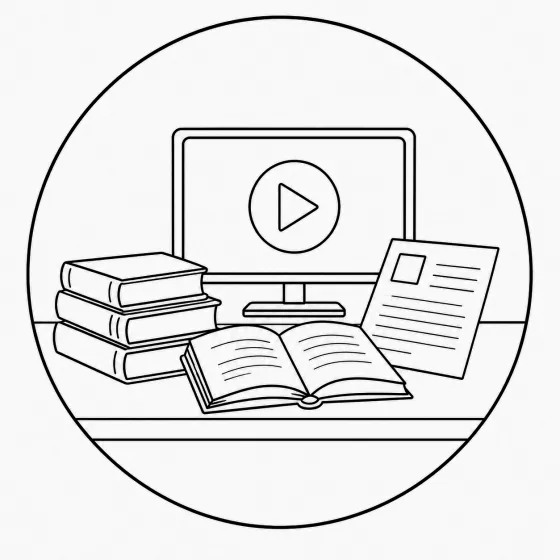
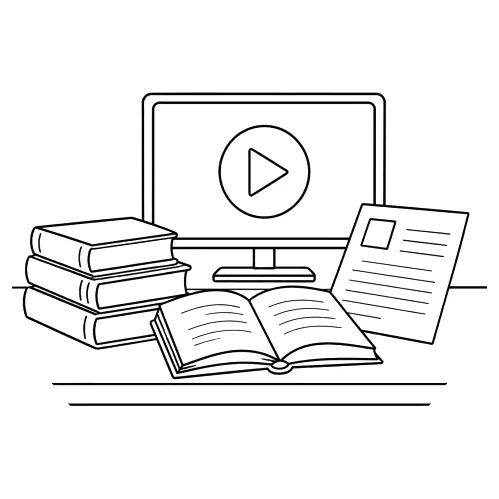
About, Resources, Stay or Separate headers: white background; remove outlines around header images; clean Resources illustration

diff --git a/bauhaus.css b/bauhaus.css
@@ -1319,3 +1319,12 @@ body.services-page section.block .kicker::before{width:28px;}
 
 /* Services: pale mint-green background behind the "Not sure where to start?" banner */
 body.services-page section.block.cta-green{background:#E3F7EE;}
+
+/* About + Resources headers: white background, no outline around the illustration */
+body.resources-page .page-hero,.about-hero{background:#fff;}
+.about-photo img{border:0;}
+.about-photo .br-sq1,.about-photo .br-sq2{display:none;}
+body.resources-page .page-hero .hero-art{border:0;border-radius:0;box-shadow:none;}
+
+/* Stay or Separate header: white background */
+body.stay-page .page-hero{background:#fff;}

diff --git a/resources.html b/resources.html
@@ -4,6 +4,7 @@ description: "Understand the collaborative divorce process, watch educational vi
 ogType: "website"
 permalink: /resources/
 nav: "resources"
+bodyClass: "resources-page"
 layout: base.njk
 schema: |
   {
